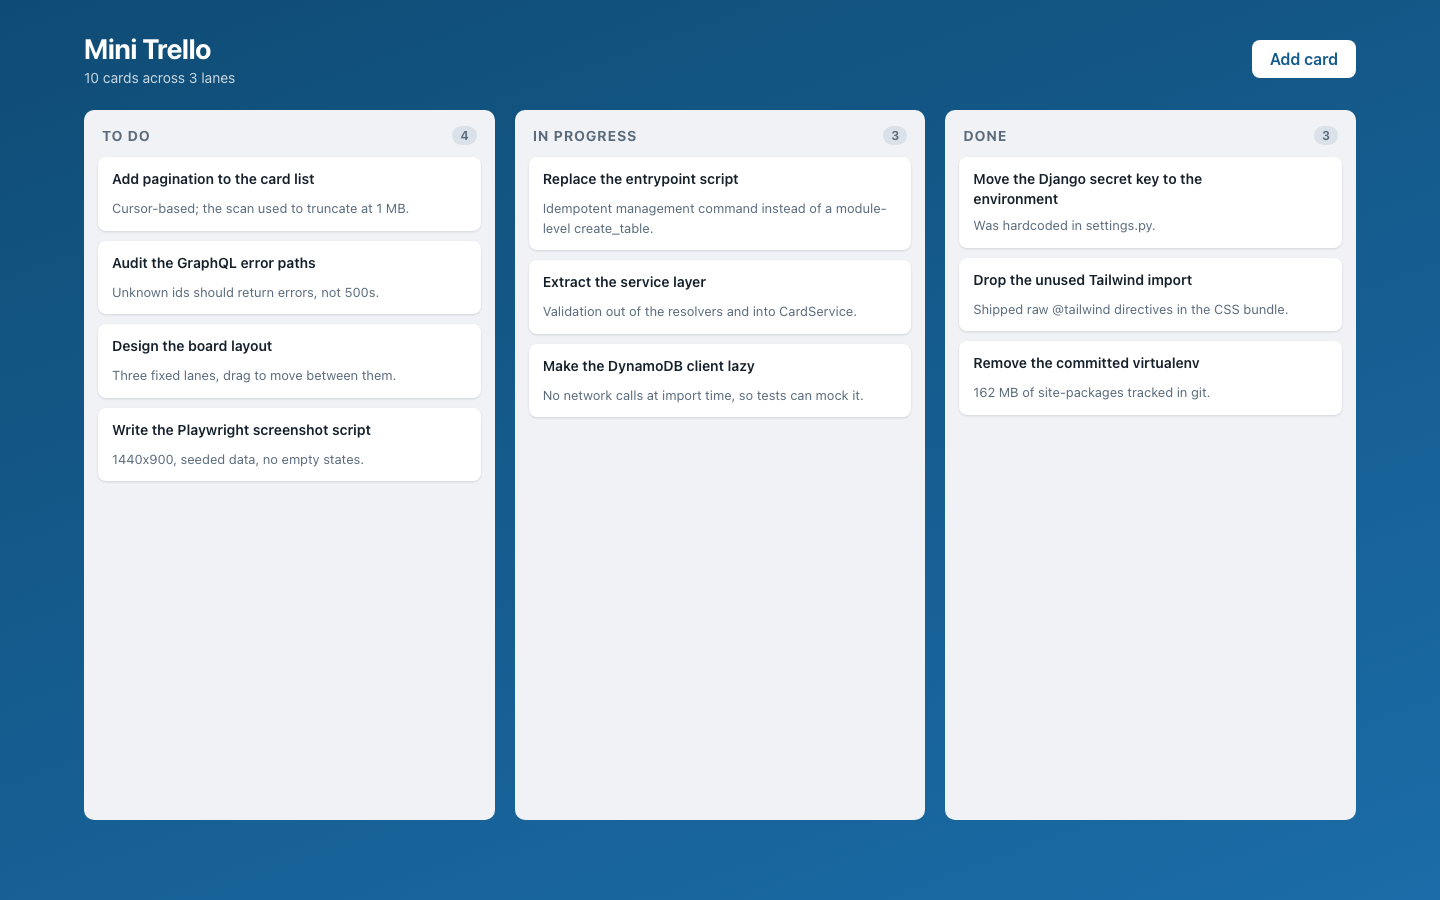
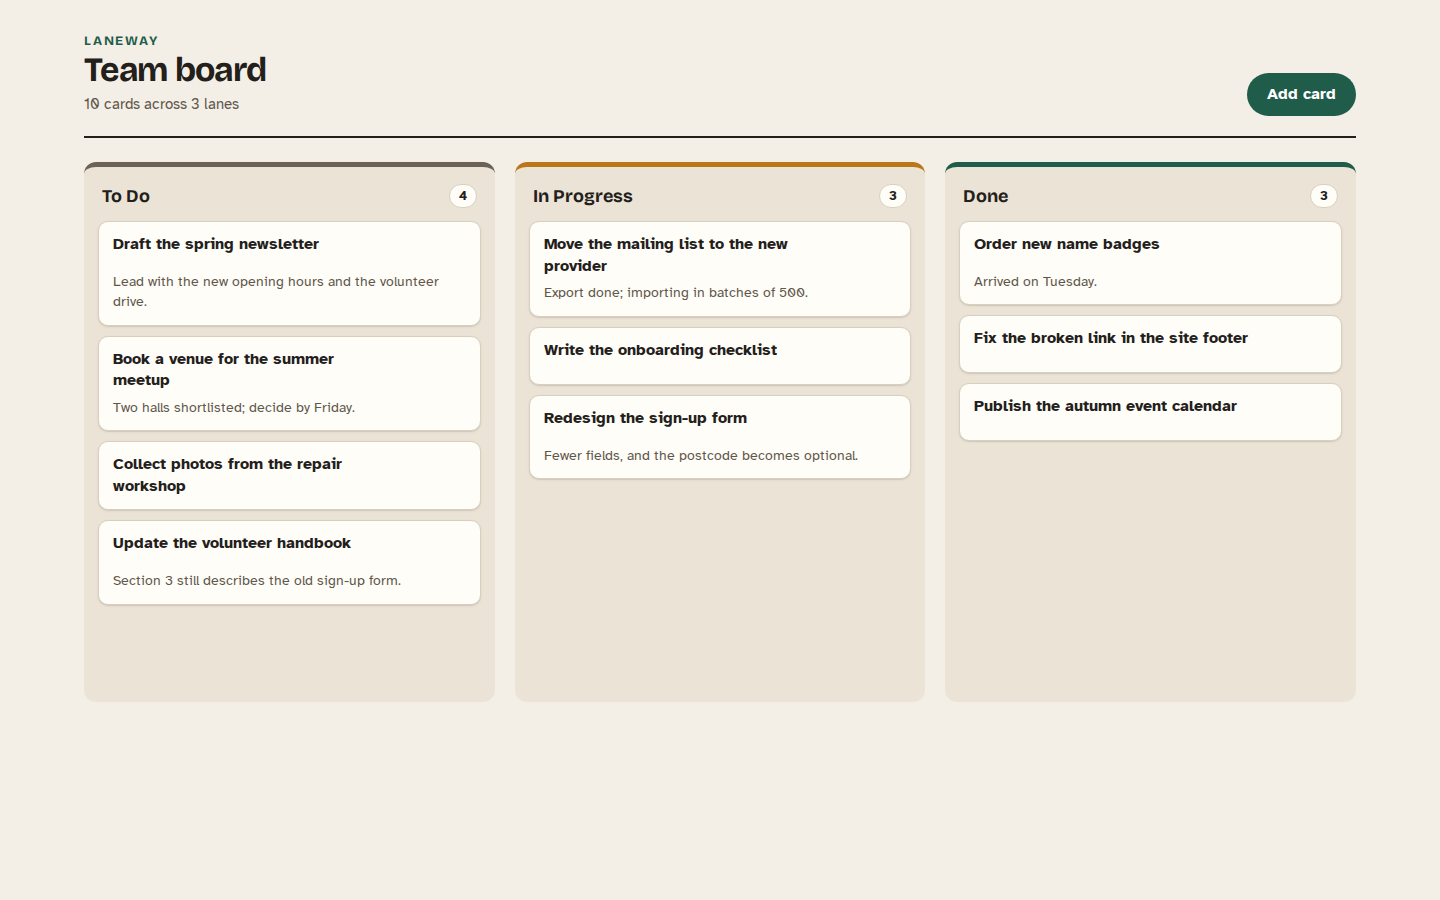
Rewrite the README for Laneway and refresh screenshots and examples
The README now explains what the board is for and who it suits, gives
the Compose and manual setup paths (both followed from scratch in fresh
containers), lists the settings that matter, draws the request path
with Mermaid, and states the limits plainly: no accounts, lane order
not saved, listing by table scan.

Screenshots are retaken from the seeded Compose stack at 1440x900 plus
a 390px phone view, and the API examples are recaptured from the same
stack, including the new root-field limit. Adds an MIT LICENSE, since
the project had none.

diff --git a/README.md b/README.md
@@ -1,12 +1,14 @@
-# Mini Trello
+# Laneway
 
-A simple kanban board with three lanes (To Do, In Progress, Done). You can add, edit and delete cards and drag them between lanes. The frontend is React with Apollo Client, the backend is a Django + Graphene GraphQL API, and cards are stored in DynamoDB.
+Laneway is a small kanban board: three lanes (To Do, In Progress, Done) and cards you can add, edit, delete and drag between lanes. A React client talks to a Django + Graphene GraphQL API, and the cards are stored in DynamoDB.
 
-There is one shared board and no user accounts.
+It is deliberately small. There is one shared board and no user accounts, so it suits a single team on a trusted network, or serves as a worked example of GraphQL over DynamoDB with a thin service layer. The folders are still called `mini_trello_be/` and `mini_trello_fe/` for historical reasons.
 
-![Board](docs/screenshots/board.png)
+![The board with demo cards](docs/screenshots/board.png)
 
-**Stack:** React 18 on Vite, Apollo Client, react-beautiful-dnd, Django 5.2, graphene-django 3, boto3 / DynamoDB, pytest + moto.
+| Editing a card | Validation | Phone (390 px) |
+| --- | --- | --- |
+| ![Edit form](docs/screenshots/edit-card.png) | ![Empty title rejected](docs/screenshots/validation.png) | ![Board on a phone](docs/screenshots/board-mobile.png) |
 
 ## Running it
 
@@ -17,11 +19,17 @@ docker compose up --build
 docker compose exec backend python manage.py seed_board   # optional demo cards
 ```
 
-The UI is on http://localhost:3000 and GraphQL on http://localhost:8001/graphql. Ports can be changed with `FRONTEND_PORT`, `BACKEND_PORT` and `DYNAMODB_PORT`.
+The board is on http://localhost:3000 and GraphQL (with GraphiQL) on http://localhost:8001/graphql. If those ports are taken, set `FRONTEND_PORT`, `BACKEND_PORT` and `DYNAMODB_PORT`:
 
-### Manual setup
+```bash
+FRONTEND_PORT=4000 BACKEND_PORT=4001 DYNAMODB_PORT=4002 docker compose up --build
+```
 
-moto (a dev dependency) can act as a local DynamoDB, so no AWS account is needed.
+Compose runs three containers: DynamoDB Local (data kept in a named volume), the API (it runs `migrate` and creates the Card table on start) and nginx serving the built client. `docker compose down -v` removes the stored cards.
+
+### Without Docker
+
+You need Python 3.12 and Node 22 (`.python-version` and `.nvmrc` are provided). moto, a dev dependency, stands in for DynamoDB, so no AWS account is needed.
 
 ```bash
 cd mini_trello_be
@@ -37,43 +45,77 @@ python manage.py seed_board
 python manage.py runserver 0.0.0.0:8001
 ```
 
-Then in another terminal:
+Then, in another terminal:
 
 ```bash
 cd mini_trello_fe
 npm ci
-VITE_GRAPHQL_URL=http://localhost:8001/graphql npm run dev
+npm run dev        # http://localhost:3000
 ```
 
-Backend settings are listed in `mini_trello_be/.env.example` and the frontend one in `mini_trello_fe/.env.example`. `VITE_GRAPHQL_URL` is read at build time, so changing it needs a rebuild.
+moto keeps everything in memory, so the cards disappear when `moto_server` stops.
 
-## Code layout
+## Configuration
 
-The backend app lives in `mini_trello_be/boards`:
+Backend settings are read from the environment; `mini_trello_be/.env.example` lists them all. The ones that matter most:
 
-- `lanes.py` defines the three lanes; adding a lane there makes it show up in the API and UI
-- `services.py` has validation (title required, length limits)
-- `repositories.py` handles DynamoDB reads and writes, including scan pagination
-- `dynamodb.py` creates the boto3 client lazily from env vars
-- `schema.py` contains the GraphQL types and resolvers
+| Variable | Default | Purpose |
+| --- | --- | --- |
+| `DJANGO_SECRET_KEY` | development fallback | Required once `DJANGO_DEBUG` is off; startup fails without it |
+| `DJANGO_DEBUG` | `true` | Also switches GraphiQL, introspection and secure cookies |
+| `CORS_ALLOWED_ORIGINS` | `http://localhost:3000` | Origins allowed to call the API |
+| `DYNAMODB_ENDPOINT_URL` | unset (real AWS) | DynamoDB Local or moto URL |
+| `GRAPHQL_MAX_DEPTH` / `GRAPHQL_MAX_ROOT_FIELDS` | `5` / `10` | Per-request query limits |
 
-On the frontend, `src/hooks/useBoard.js` holds the data logic, and moves between lanes use an optimistic Apollo update.
+The client has one setting, `VITE_GRAPHQL_URL` (see `mini_trello_fe/.env.example`). Vite bakes it into the bundle at build time, so changing it needs a rebuild.
 
-Example requests and responses are in [docs/api-examples.md](docs/api-examples.md).
+## How it fits together
 
-## Testing
+```mermaid
+flowchart LR
+    UI["React client<br/>useBoard hook + Apollo cache"] -- "POST /graphql" --> View["BoardGraphQLView<br/>depth / width limits"]
+    View --> Schema["boards/schema.py<br/>GraphQL types"]
+    Schema --> Service["boards/services.py<br/>validation"]
+    Service --> Repo["boards/repositories.py<br/>DynamoDB access"]
+    Repo --> DDB[("DynamoDB<br/>Card table")]
+    Lanes["boards/lanes.py"] -.-> Schema
+    Lanes -.-> Service
+```
+
+Each backend layer only talks to the one below it:
+
+- **`lanes.py`** is the single list of lanes. Adding a lane there adds it to validation, the API and the UI. The client draws whatever lanes the server returns.
+- **`services.py`** holds the business rules: a title is required (200 characters at most), descriptions are capped at 5,000, the status must be a known lane, and a card id must be non-empty and at most 64 characters.
+- **`repositories.py`** is the only code that knows about DynamoDB. Listing follows `LastEvaluatedKey`, because a single scan stops at 1 MB, and hands back an opaque cursor. Cursors are checked before use, so a tampered one restarts the listing instead of reaching boto3.
+- **`graphql_view.py`** rejects requests that alias more than 10 root fields or nest deeper than 5 levels, before any scan runs. Introspection is turned off whenever GraphiQL is.
+
+On the client, `src/hooks/useBoard.js` owns all data access. It loads the board 200 cards at a time and follows the cursor until every card is on screen. Moves between lanes are optimistic: the card moves immediately and jumps back, with an alert, if the server refuses. Drag and drop uses `@hello-pangea/dnd`, so cards can also be moved from the keyboard: focus a card, press Space, use the arrow keys, then press Space again.
+
+Request and response examples captured from a running stack are in [docs/api-examples.md](docs/api-examples.md).
+
+## Tests and linting
 
 ```bash
-cd mini_trello_be && pytest
+cd mini_trello_be
+pytest                                   # 98 tests, DynamoDB mocked by moto, no network
 ruff check . && ruff format --check .
 
-cd mini_trello_fe && npm run test:ci
+cd mini_trello_fe
+npm run test:ci                          # 20 Vitest + Testing Library tests
 npm run lint
+npm run build
 ```
 
-Backend tests use moto, so they don't need network access or AWS.
+The backend suite goes through the real GraphQL schema and through Django's test client, so it covers the exact queries the client sends, the request limits and the CORS preflight.
 
-## Next steps
+The README screenshots come from `npm run screenshots` (Playwright; run `npx playwright install chromium` once first). Run it against a stack seeded with `seed_board --reset` and set `APP_URL` if the board is not on port 3000.
 
-- Add authentication; right now anyone who can reach the API can read and delete every card.
-- Persist card order within a lane (only moves between lanes are saved).
+## Known limitations
+
+- **No authentication.** Anyone who can reach the API can read, edit and delete every card. `boards/tests/test_security.py` pins that behaviour so that adding accounts is a deliberate change. Put the app behind a VPN or an authenticating proxy before exposing it.
+- **Order within a lane is not saved.** Only moves between lanes reach the server. Cards come back in DynamoDB scan order.
+- **Listing is a table scan.** That is fine for a team board with hundreds of cards. Thousands of boards or cards would need a secondary index on `status` and per-lane queries.
+
+## License
+
+MIT; see [LICENSE](LICENSE).

diff --git a/docs/api-examples.md b/docs/api-examples.md
@@ -1,13 +1,15 @@
 # API examples
 
-Captured against a live backend on 2026-09-25 with the stack described in the
-README's "Running without Docker" section (moto DynamoDB on 8785, Django on 8781).
-Every block below is literal terminal output.
+Captured on 2026-11-09 against the Docker Compose stack after
+`python manage.py seed_board --reset`. The stack ran on remapped host ports;
+the commands below use the default port 8001. Every response is literal output.
 
-## Fetch the board (lanes + cards)
+## Fetch the board
+
+Lanes plus the first page of cards. `nextCursor` is opaque; pass it back as `cursor` for the next page.
 
 ```console
-$ curl -s -X POST http://localhost:8781/graphql -H 'Content-Type: application/json' \
+$ curl -s -X POST http://localhost:8001/graphql -H 'Content-Type: application/json' \
     -d '{"query":"{ lanes { id title position } cardPage(limit: 2) { cards { id title status } nextCursor hasNextPage } }"}' | python -m json.tool
 {
     "data": {
@@ -31,27 +33,77 @@ $ curl -s -X POST http://localhost:8781/graphql -H 'Content-Type: application/js
         "cardPage": {
             "cards": [
                 {
-                    "id": "150bd1b9-04b2-445e-a038-b20aa8d85e4f",
-                    "title": "Move the Django secret key to the environment",
-                    "status": "done"
+                    "id": "10bd9506-28bb-46f7-ad7a-785cc15bc55f",
+                    "title": "Update the volunteer handbook",
+                    "status": "todo"
                 },
                 {
-                    "id": "3368250b-6a9e-4bdc-a7c6-ba5f8f49af58",
-                    "title": "Add pagination to the card list",
-                    "status": "todo"
+                    "id": "439045d1-6600-46d4-8c17-248f46a42240",
+                    "title": "Order new name badges",
+                    "status": "done"
                 }
             ],
[2 lines of base64/hex data omitted]
             "hasNextPage": true
         }
     }
 }
 ```
 
-## Validation errors come back as GraphQL errors, not 500s
+## Create a card
+
+`status` is optional and defaults to the first lane.
 
 ```console
-$ curl -s -X POST http://localhost:8781/graphql -H 'Content-Type: application/json' \
+$ curl -s -X POST http://localhost:8001/graphql -H 'Content-Type: application/json' \
+    -d '{"query":"mutation { createCard(title: \"Print the meetup flyers\", status: \"todo\") { card { id title status } } }"}' | python -m json.tool
+{
+    "data": {
+        "createCard": {
+            "card": {
+                "id": "92de6cad-3ebb-44c8-8169-6acd22d5f5b5",
+                "title": "Print the meetup flyers",
+                "status": "todo"
+            }
+        }
+    }
+}
+```
+
+## A blank title is a validation error
+
+Business-rule failures come back in the `errors` array with `data.createCard` set to null, not as an HTTP 500.
+
+```console
+$ curl -s -X POST http://localhost:8001/graphql -H 'Content-Type: application/json' \
+    -d '{"query":"mutation { createCard(title: \"   \") { card { id } } }"}' | python -m json.tool
+{
+    "errors": [
+        {
+            "message": "Title is required.",
+            "locations": [
+                {
+                    "line": 1,
+                    "column": 12
+                }
+            ],
+            "path": [
+                "createCard"
+            ]
+        }
+    ],
+    "data": {
+        "createCard": null
+    }
+}
+```
+
+## An unknown lane is rejected
+
+The message lists the valid lane ids from `boards/lanes.py`.
+
+```console
+$ curl -s -X POST http://localhost:8001/graphql -H 'Content-Type: application/json' \
     -d '{"query":"mutation { createCard(title: \"x\", status: \"nowhere\") { card { id } } }"}' | python -m json.tool
 {
     "errors": [
@@ -74,10 +126,32 @@ $ curl -s -X POST http://localhost:8781/graphql -H 'Content-Type: application/js
 }
 ```
 
-## An unknown card id returns null rather than crashing
+## Too many root fields in one request
+
+Each `allCards` is a table scan, so a request may select at most `GRAPHQL_MAX_ROOT_FIELDS` (10) root fields. The check runs before any resolver.
 
 ```console
-$ curl -s -X POST http://localhost:8781/graphql -H 'Content-Type: application/json' \
+$ curl -s -X POST http://localhost:8001/graphql -H 'Content-Type: application/json' \
+    -d '{"query":"{ a: allCards { id } b: allCards { id } c: allCards { id } d: allCards { id } e: allCards { id } f: allCards { id } g: allCards { id } h: allCards { id } i: allCards { id } j: allCards { id } k: allCards { id } }"}' | python -m json.tool
+{
+    "errors": [
+        {
+            "message": "An operation may select at most 10 root fields.",
+            "locations": [
+                {
+                    "line": 1,
+                    "column": 1
+                }
+            ]
+        }
+    ]
+}
+```
+
+## An unknown card id returns null
+
+```console
+$ curl -s -X POST http://localhost:8001/graphql -H 'Content-Type: application/json' \
     -d '{"query":"{ card(id: \"does-not-exist\") { id title } }"}' | python -m json.tool
 {
     "data": {
@@ -88,8 +162,10 @@ $ curl -s -X POST http://localhost:8781/graphql -H 'Content-Type: application/js
 
 ## Deleting a card that is not there reports failure
 
+`success` is false rather than a fake success.
+
 ```console
-$ curl -s -X POST http://localhost:8781/graphql -H 'Content-Type: application/json' \
+$ curl -s -X POST http://localhost:8001/graphql -H 'Content-Type: application/json' \
     -d '{"query":"mutation { deleteCard(cardId: \"does-not-exist\") { success } }"}' | python -m json.tool
 {
     "data": {
